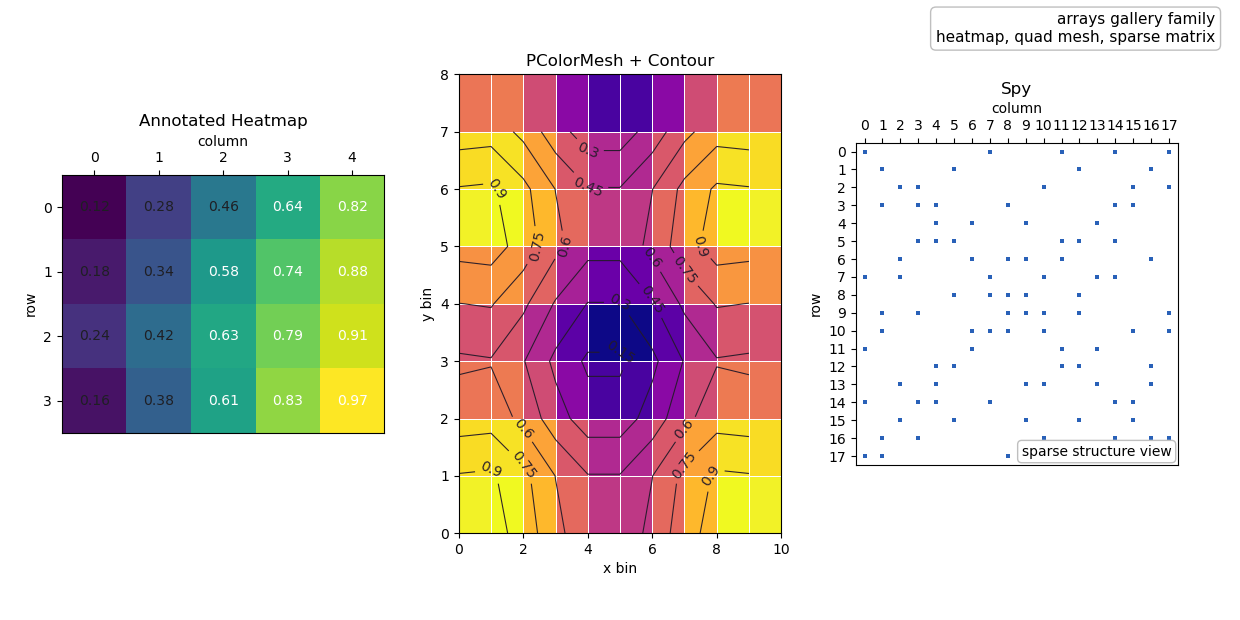
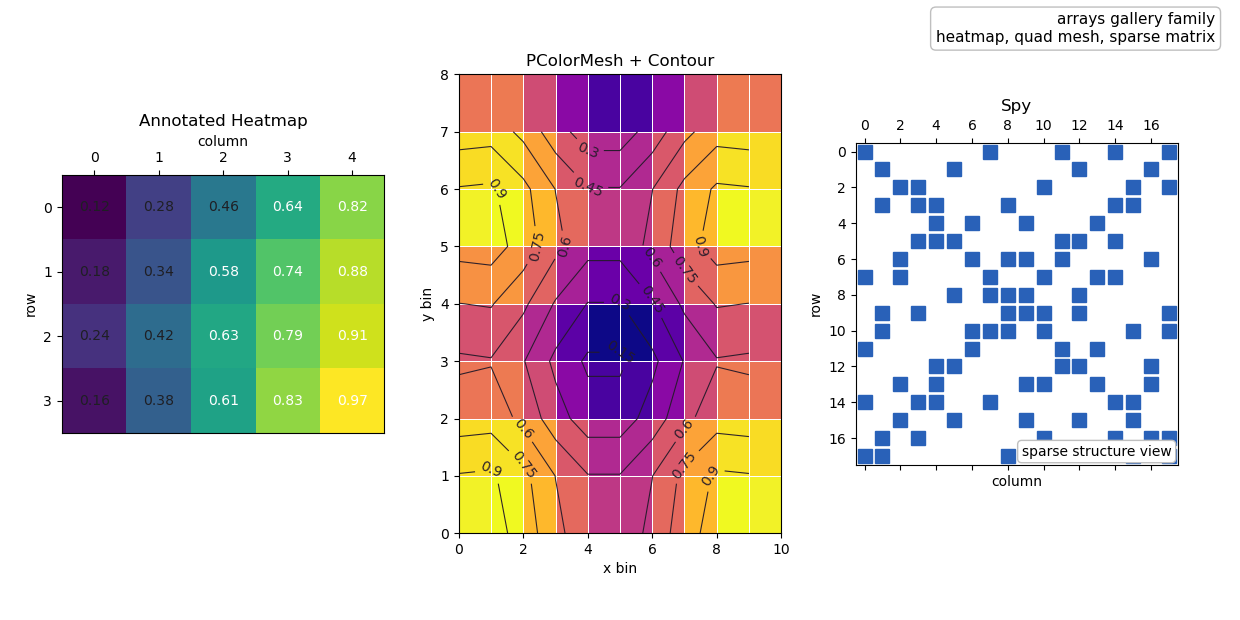
feat: Increase scatter marker size in array showcase examples for better visibility

diff --git a/core/matrix_helpers_test.go b/core/matrix_helpers_test.go
@@ -32,17 +32,17 @@ func TestAxesMatShowConfiguresMatrixView(t *testing.T) {
 	if ax.XAxisTop == nil || !ax.XAxisTop.ShowTicks || !ax.XAxisTop.ShowLabels {
 		t.Fatal("MatShow() should show top x ticks and labels")
 	}
-	if ax.xLabelSide != AxisTop {
-		t.Fatalf("x label side = %v, want AxisTop", ax.xLabelSide)
+	if ax.xLabelSide != AxisBottom {
+		t.Fatalf("x label side = %v, want AxisBottom", ax.xLabelSide)
 	}
-	if _, ok := ax.XAxis.Locator.(FixedLocator); !ok {
-		t.Fatalf("x locator = %T, want FixedLocator", ax.XAxis.Locator)
+	if _, ok := ax.XAxis.Locator.(MaxNLocator); !ok {
+		t.Fatalf("x locator = %T, want MaxNLocator", ax.XAxis.Locator)
 	}
-	if _, ok := ax.XAxisTop.Locator.(FixedLocator); !ok {
-		t.Fatalf("top x locator = %T, want FixedLocator", ax.XAxisTop.Locator)
+	if _, ok := ax.XAxisTop.Locator.(MaxNLocator); !ok {
+		t.Fatalf("top x locator = %T, want MaxNLocator", ax.XAxisTop.Locator)
 	}
-	if _, ok := ax.YAxis.Locator.(FixedLocator); !ok {
-		t.Fatalf("y locator = %T, want FixedLocator", ax.YAxis.Locator)
+	if _, ok := ax.YAxis.Locator.(MaxNLocator); !ok {
+		t.Fatalf("y locator = %T, want MaxNLocator", ax.YAxis.Locator)
 	}
 }
 
@@ -57,10 +57,13 @@ func TestAxesSpySupportsMarkerAndImageModes(t *testing.T) {
 	ax := fig.AddAxes(unitRect())
 	result := ax.Spy(data, SpyOptions{Precision: 0.5})
 	if result == nil {
-		t.Fatal("Spy() returned nil for marker mode")
+		t.Fatal("Spy() returned nil for default image mode")
 	}
-	if result.Markers == nil {
-		t.Fatal("marker mode should create a PathCollection")
+	if result.Image == nil {
+		t.Fatal("default Spy() should create an Image2D like matplotlib")
+	}
+	if result.Markers != nil {
+		t.Fatal("default Spy() should not create marker collection")
 	}
 	if got := len(result.Indices); got != 3 {
 		t.Fatalf("len(indices) = %d, want 3", got)
@@ -74,16 +77,34 @@ func TestAxesSpySupportsMarkerAndImageModes(t *testing.T) {
 
 	fig = NewFigure(400, 300)
 	ax = fig.AddAxes(unitRect())
-	useImage := true
+	useImage := false
 	result = ax.Spy(data, SpyOptions{UseImage: &useImage})
 	if result == nil {
-		t.Fatal("Spy() returned nil for image mode")
+		t.Fatal("Spy() returned nil for marker mode")
 	}
-	if result.Image == nil {
-		t.Fatal("image mode should create an Image2D")
+	if result.Markers == nil {
+		t.Fatal("marker mode should create a PathCollection")
 	}
-	if result.Markers != nil {
-		t.Fatal("image mode should not create marker collection")
+	if result.Image != nil {
+		t.Fatal("marker mode should not create an Image2D")
+	}
+}
+
+func TestAxesSpyMarkerSizeUsesMatplotlibPointDiameter(t *testing.T) {
+	data := [][]float64{{1}}
+
+	fig := NewFigure(400, 300)
+	small := fig.AddAxes(unitRect()).Spy(data, SpyOptions{MarkerSize: 5})
+	large := fig.AddAxes(unitRect()).Spy(data, SpyOptions{MarkerSize: 10})
+
+	if small == nil || small.Markers == nil || large == nil || large.Markers == nil {
+		t.Fatal("Spy(marker size) should use marker mode")
+	}
+	if !(large.Markers.Size > small.Markers.Size) {
+		t.Fatalf("larger MarkerSize should increase rendered marker scale, got small=%v large=%v", small.Markers.Size, large.Markers.Size)
+	}
+	if got, want := large.Markers.Size/small.Markers.Size, 2.0; !almostEqualFloat(got, want) {
+		t.Fatalf("marker scale ratio = %v, want %v", got, want)
 	}
 }
 

diff --git a/core/matrix_helpers.go b/core/matrix_helpers.go
@@ -133,8 +133,7 @@ func (a *Axes) Spy(data [][]float64, opts ...SpyOptions) *SpyResult {
 	}
 
 	cfg := SpyOptions{
-		MarkerSize: 7,
-		Aspect:     "equal",
+		Aspect: "equal",
 	}
 	if len(opts) > 0 {
 		opt := opts[0]
@@ -157,11 +156,6 @@ func (a *Axes) Spy(data [][]float64, opts ...SpyOptions) *SpyResult {
 			cfg.Label = opt.Label
 		}
 	}
-	if cfg.MarkerSize <= 0 {
-		cfg.MarkerSize = 7
-	}
-	marker := markerValue(cfg.Marker, MarkerSquare)
-
 	indices := make([]geom.Pt, 0)
 	mask := make([][]float64, rows)
 	for row := 0; row < rows; row++ {
@@ -177,7 +171,11 @@ func (a *Axes) Spy(data [][]float64, opts ...SpyOptions) *SpyResult {
 	}
 
 	result := &SpyResult{Indices: indices}
-	if boolValue(cfg.UseImage, false) {
+	useImage := cfg.UseImage == nil || boolValue(cfg.UseImage, true)
+	if cfg.Marker != nil || cfg.MarkerSize > 0 {
+		useImage = false
+	}
+	if useImage {
 		cmap := "gray"
 		vMin := 0.0
 		vMax := 1.0
@@ -193,6 +191,10 @@ func (a *Axes) Spy(data [][]float64, opts ...SpyOptions) *SpyResult {
 		return result
 	}
 
+	if cfg.MarkerSize <= 0 {
+		cfg.MarkerSize = 10
+	}
+	marker := markerValue(cfg.Marker, MarkerSquare)
 	color := render.Color{A: 1}
 	if cfg.Color != nil {
 		color = *cfg.Color
@@ -203,6 +205,7 @@ func (a *Axes) Spy(data [][]float64, opts ...SpyOptions) *SpyResult {
 	}
 	path := (&Scatter2D{Marker: marker}).markerPrototypePath()
 	lineOnly := marker == MarkerPlus || marker == MarkerCross
+	markerSizePx := cfg.MarkerSize * matrixMarkerDPI(a) / 72.0
 	pc := &PathCollection{
 		Collection: Collection{
 			Coords: Coords(CoordData),
@@ -211,7 +214,7 @@ func (a *Axes) Spy(data [][]float64, opts ...SpyOptions) *SpyResult {
 		},
 		Path:          path,
 		Offsets:       append([]geom.Pt(nil), indices...),
-		Size:          cfg.MarkerSize * stemMarkerScale,
+		Size:          markerSizePx,
 		PathInDisplay: true,
 		FaceColor:     color,
 		EdgeColor:     color,
@@ -236,6 +239,15 @@ func (a *Axes) Spy(data [][]float64, opts ...SpyOptions) *SpyResult {
 	applyMatrixAxisPresentation(a)
 	applyMatrixTicks(a, rows, cols)
 	return result
+}
+
+func matrixMarkerDPI(a *Axes) float64 {
+	if a != nil {
+		if dpi := a.resolvedRC().DPI; dpi > 0 {
+			return dpi
+		}
+	}
+	return 72
 }
 
 // AnnotatedHeatmap renders a matrix display plus a centered value label in each cell.
@@ -326,7 +338,6 @@ func applyMatrixAxisPresentation(a *Axes) {
 		top.ShowTicks = true
 		top.ShowLabels = true
 	}
-	_ = a.SetXLabelPosition("top")
 }
 
 func applyMatrixTicks(a *Axes, rows, cols int) {
@@ -355,14 +366,7 @@ func integerMatrixLocator(count int) Locator {
 	if count <= 0 {
 		return NullLocator{}
 	}
-	if count <= 16 {
-		ticks := make([]float64, count)
-		for i := range ticks {
-			ticks[i] = float64(i)
-		}
-		return FixedLocator{TicksList: ticks}
-	}
-	return MaxNLocator{N: 8, Integer: true}
+	return MaxNLocator{N: 9, Steps: []float64{1, 2, 5, 10}, Integer: true}
 }
 
 func formatAnnotatedHeatmapValue(value float64, pattern, nanText string) string {

diff --git a/examples/arrays/basic.go b/examples/arrays/basic.go
@@ -113,22 +113,6 @@ func setMatrixTicks(ax *core.Axes, rows, cols int) {
 	}
 }
 
-// sparseIndices mirrors np.where(data > precision), returning x and y
-// coordinate slices for scatter.
-func sparseIndices(data [][]float64, precision float64) ([]float64, []float64) {
-	xx := []float64{}
-	yy := []float64{}
-	for y, row := range data {
-		for x, value := range row {
-			if value > precision {
-				xx = append(xx, float64(x))
-				yy = append(yy, float64(y))
-			}
-		}
-	}
-	return xx, yy
-}
-
 // addAnchoredText centralizes the boxed-note style used at axes and figure level.
 func addAnchoredText(target anchoredTextTarget, text string, location core.LegendLocation) {
 	target.AddAnchoredText(text, core.AnchoredTextOptions{
@@ -230,21 +214,15 @@ func drawSpyMatrix(fig *core.Figure) {
 	ax.SetXLabel("column index")
 	ax.SetYLabel("row")
 
-	// Convert non-zero matrix entries into square scatter markers.
-	xx, yy := sparseIndices(data, 0.1)
-	ax.Scatter(xx, yy, core.ScatterOptions{
-		Size:      ptr(10.0),
-		Color:     ptr(render.Color{R: 0.16, G: 0.38, B: 0.72, A: 1}),
-		Marker:    ptr(core.MarkerSquare),
-		EdgeWidth: ptr(0.0),
-		Label:     "spy",
+	// Spy converts non-zero matrix entries into square markers and applies the
+	// same matrix-style limits, aspect, y inversion, and tick locator as Matplotlib.
+	ax.Spy(data, core.SpyOptions{
+		Precision:  0.1,
+		Marker:     ptr(core.MarkerSquare),
+		MarkerSize: 10,
+		Color:      ptr(render.Color{R: 0.16, G: 0.38, B: 0.72, A: 1}),
+		Label:      "spy",
 	})
-	// Matrix coordinates increase downward, so the y-axis is inverted.
-	ax.SetXLim(-0.5, 17.5)
-	ax.SetYLim(17.5, -0.5)
-	_ = ax.SetAspect("equal")
-	setMatrixTicks(ax, 18, 18)
-	useMatrixTopAxis(ax)
 
 	// Add the small explanatory note inside the lower-right corner.
 	addAnchoredText(ax, "sparse structure view", core.LegendLowerRight)

diff --git a/test/showcase_parity_test.go b/test/showcase_parity_test.go
@@ -186,24 +186,15 @@ func renderArraysShowcase() image.Image {
 	spyAx.SetTitle("Spy")
 	spyAx.SetXLabel("column")
 	spyAx.SetYLabel("row")
-	spyData := paritySparsePattern(18, 18)
-	spyX, spyY := paritySparseIndices(spyData, 0.1)
 	spyColor := render.Color{R: 0.16, G: 0.38, B: 0.72, A: 1}
-	spySize := 10.0
 	spyMarker := core.MarkerSquare
-	spyEdgeWidth := 0.0
-	spyAx.Scatter(spyX, spyY, core.ScatterOptions{
-		Size:      &spySize,
-		Color:     &spyColor,
-		Marker:    &spyMarker,
-		EdgeWidth: &spyEdgeWidth,
-		Label:     "spy",
+	spyAx.Spy(paritySparsePattern(18, 18), core.SpyOptions{
+		Precision:  0.1,
+		Marker:     &spyMarker,
+		MarkerSize: 10,
+		Color:      &spyColor,
+		Label:      "spy",
 	})
-	spyAx.SetXLim(-0.5, 17.5)
-	spyAx.SetYLim(17.5, -0.5)
-	_ = spyAx.SetAspect("equal")
-	paritySetMatrixTicks(spyAx, 18, 18)
-	parityUseMatrixTopAxis(spyAx)
 	spyAx.AddAnchoredText("sparse structure view", core.AnchoredTextOptions{
 		Location: core.LegendLowerRight,
 	})
@@ -545,18 +536,4 @@ func parityArange(n int) []float64 {
 		values[i] = float64(i)
 	}
 	return values
-}
-
-func paritySparseIndices(data [][]float64, precision float64) ([]float64, []float64) {
-	xx := []float64{}
-	yy := []float64{}
-	for y, row := range data {
-		for x, value := range row {
-			if value > precision {
-				xx = append(xx, float64(x))
-				yy = append(yy, float64(y))
-			}
-		}
-	}
-	return xx, yy
 }

diff --git a/examples/arrays/basic.py b/examples/arrays/basic.py
@@ -78,12 +78,6 @@ def set_matrix_ticks(ax, rows, cols):
     ax.set_yticks(arange(rows))
 
 
-def sparse_indices(data, precision):
-    # Return x and y coordinate arrays for the scatter call below.
-    yy, xx = np.where(data > precision)
-    return xx, yy
-
-
 def add_anchored_text(target, text, location):
     # Centralize the boxed-note style so figure-level and axes-level notes match.
     kwargs = {}
@@ -199,22 +193,15 @@ def draw_spy_matrix(fig):
     ax.set_xlabel("column index")
     ax.set_ylabel("row")
 
-    xx, yy = sparse_indices(data, 0.1)
-    # Draw each non-zero matrix entry as a small square marker.
-    ax.scatter(
-        xx,
-        yy,
-        s=10,
-        color=(0.16, 0.38, 0.72, 1.0),
+    # spy converts non-zero matrix entries into square markers and applies the
+    # same matrix-style limits, aspect, y inversion, and tick locator as Go.
+    ax.spy(
+        data,
+        precision=0.1,
         marker="s",
-        linewidths=0,
+        markersize=10,
+        color=(0.16, 0.38, 0.72, 1.0),
     )
-    # Invert y so row zero appears at the top, like an image/matrix display.
-    ax.set_xlim(-0.5, 17.5)
-    ax.set_ylim(17.5, -0.5)
-    ax.set_aspect("equal")
-    set_matrix_ticks(ax, 18, 18)
-    use_matrix_top_axis(ax)
 
     add_anchored_text(ax, "sparse structure view", "lower right")
 

diff --git a/test/matplotlib_ref/plots/arrays_showcase.py b/test/matplotlib_ref/plots/arrays_showcase.py
@@ -81,15 +81,7 @@ def arrays_showcase(out_dir):
     ax_spy.set_title("Spy")
     ax_spy.set_xlabel("column")
     ax_spy.set_ylabel("row")
-    yy_spy, xx_spy = np.where(spy > 0.1)
-    ax_spy.scatter(xx_spy, yy_spy, s=10, color=(0.16, 0.38, 0.72, 1.0), marker="s", linewidths=0)
-    ax_spy.set_xlim(-0.5, 17.5)
-    ax_spy.set_ylim(17.5, -0.5)
-    ax_spy.set_aspect("equal")
-    ax_spy.set_xticks(np.arange(18))
-    ax_spy.set_yticks(np.arange(18))
-    ax_spy.xaxis.tick_top()
-    ax_spy.xaxis.set_label_position("top")
+    ax_spy.spy(spy, precision=0.1, marker="s", markersize=10, color=(0.16, 0.38, 0.72, 1.0))
     ax_spy.text(
         0.98,
         0.02,

diff --git a/docs/example-python-go-readability-gaps.md b/docs/example-python-go-readability-gaps.md
@@ -112,6 +112,12 @@ not in the example source:
   (`third_party/matplotlib/lib/matplotlib/axes/_axes.py` and
   `third_party/matplotlib/lib/matplotlib/collections.py`). Go `Scatter` now
   uses the same area semantics, which fixes oversized sparse-matrix markers.
+- Matplotlib `Axes.spy` marker mode is not `scatter`; it uses `Line2D` with
+  `markersize` in points and sets matrix ticks with
+  `MaxNLocator(nbins=9, steps=[1, 2, 5, 10], integer=True)`
+  (`third_party/matplotlib/lib/matplotlib/axes/_axes.py`). Go `Spy` now keeps
+  marker size as a point diameter, uses the same matrix tick locator, and only
+  uses image mode by default when no marker options are requested.
 - The AGG backend could fall back to local vector text whose size did not track
   renderer DPI. AGG text measurement and unrotated drawing now use the
   FreeType-backed Go raster path first, so 10pt/12pt text in examples scales

diff --git a/AGENTS.md b/AGENTS.md
@@ -31,6 +31,13 @@
 - Aim for deterministic behavior (no randomness without fixed seeds); avoid timing-based assertions.
 - Run all packages: `go test ./...`. For verbose: `go test -v ./...`.
 
+## Parity testing
+
+- When trying to achieve parity with Matplotlib, always compare with the original code of matplotlib at ./third_party
+- If possible, try to inspect the rendered output visually and compare it with the original matplotlib output.
+- Try to keep the examples as close to the original matplotlib examples as possible.
+- The aim is to have core library parity with matplotlib, so don't tweak the examples to achieve parity, but rather tweak the core library to achieve parity with the original matplotlib output.
+
 ## Commit & Pull Request Guidelines
 
 - Commits: imperative mood, concise scope (e.g., `render: add NullRenderer stack checks`). Group mechanical changes separately from logic.
